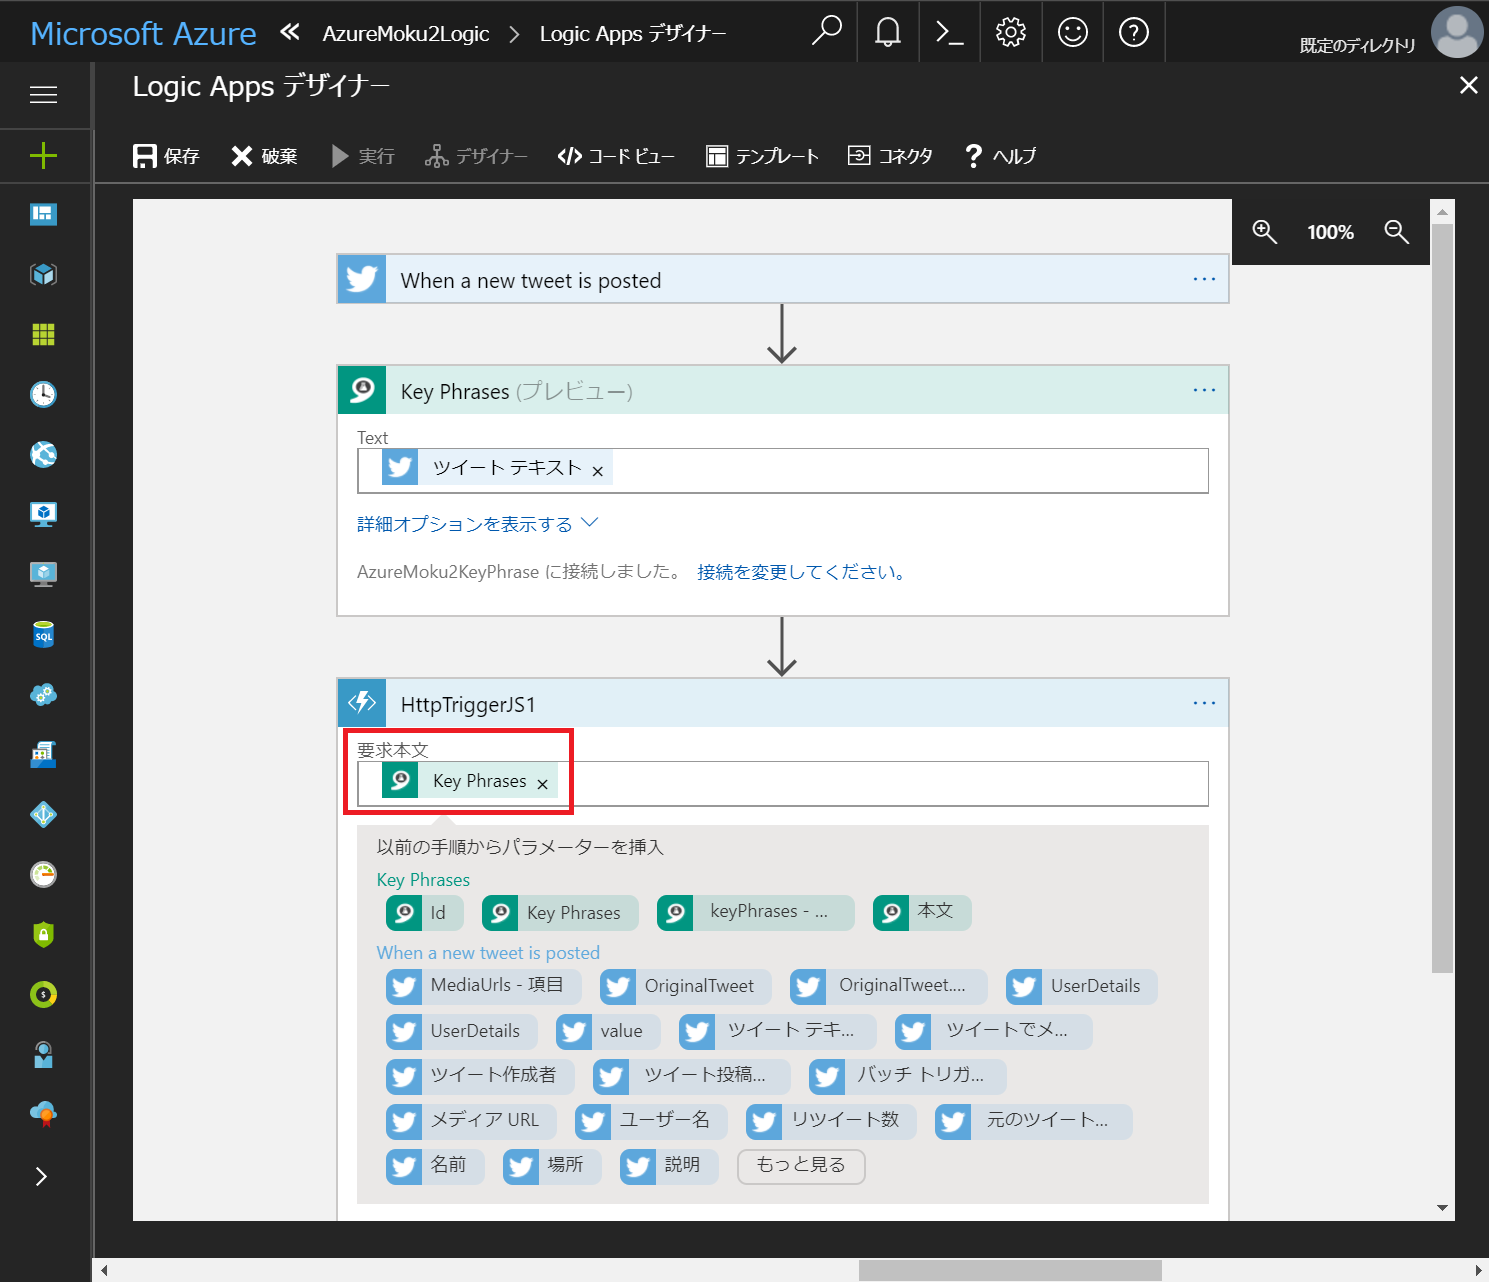
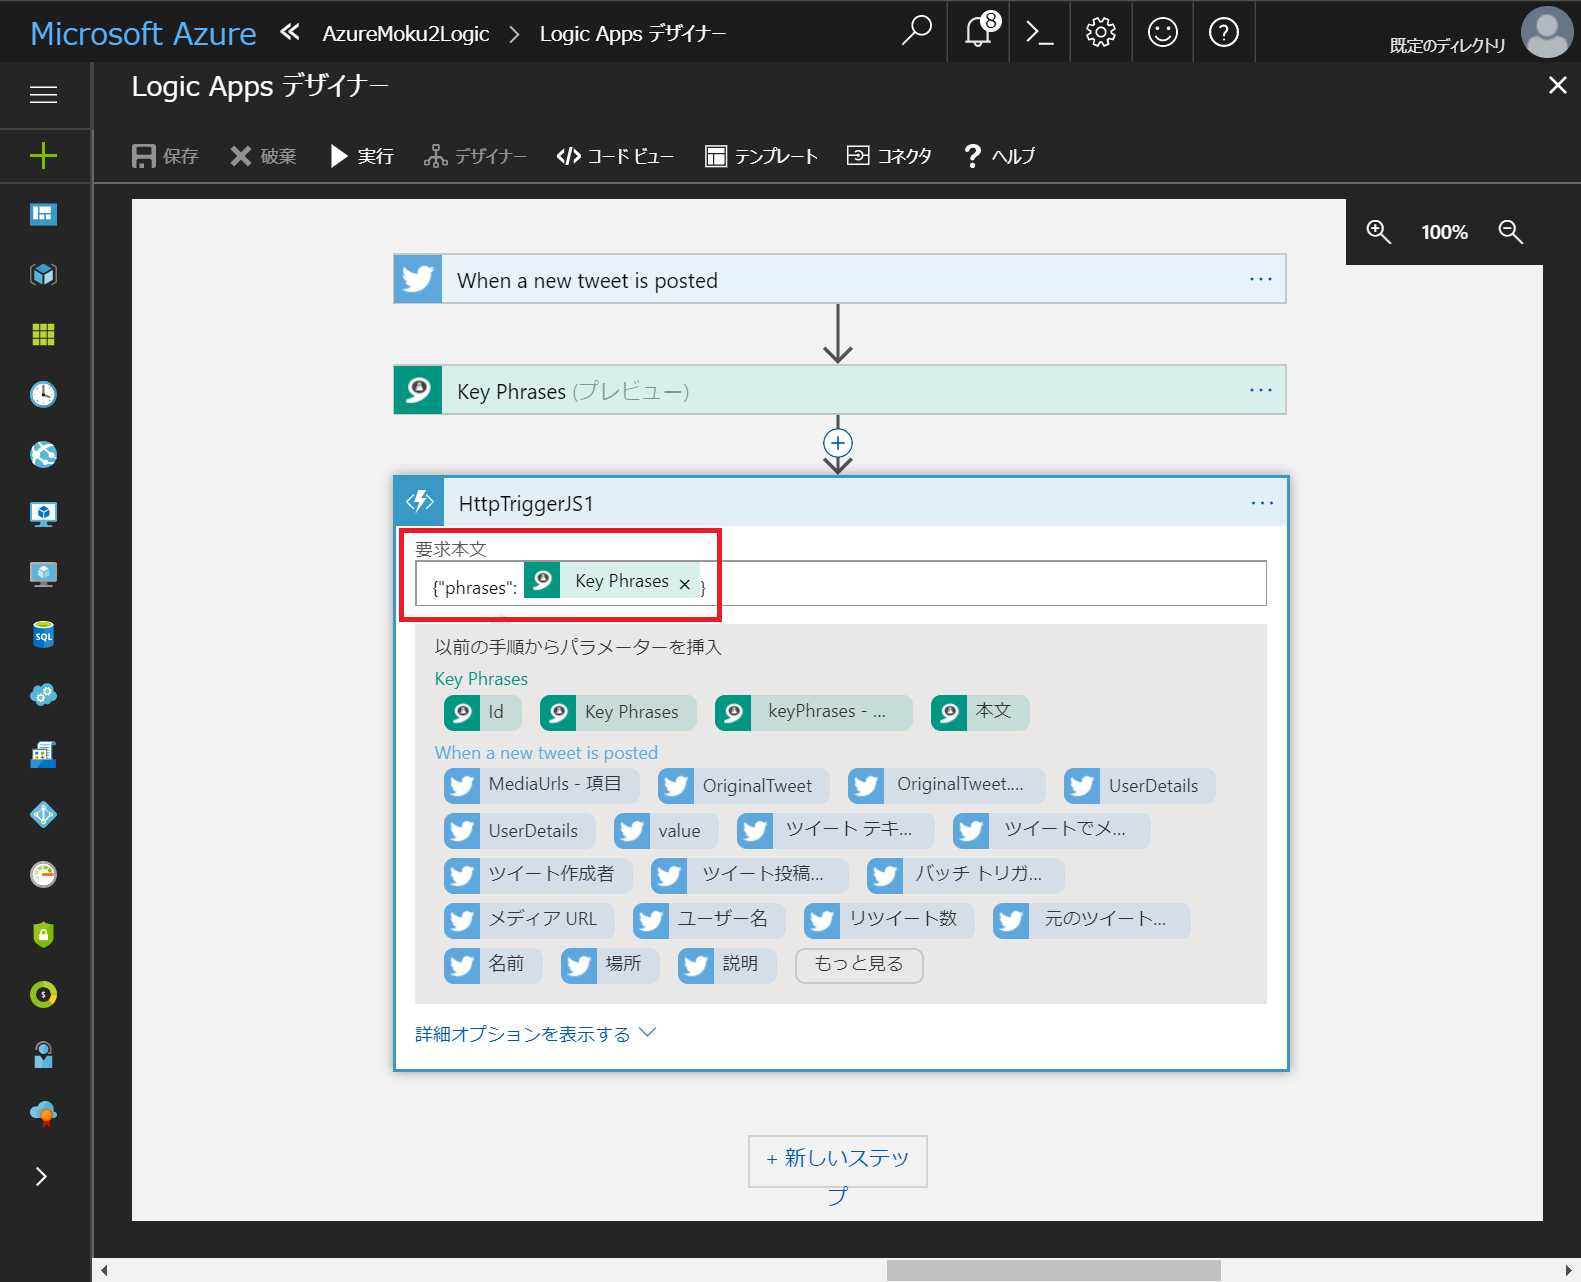
Update image

diff --git a/LogicApps-TweetAnalytics/Step2.md b/LogicApps-TweetAnalytics/Step2.md
@@ -233,7 +233,10 @@ function GenerateGuid() {
 
 ![Update Logic Apps 10](./assets/Step2/27.png)
 
-8. 「要求本文」に「Key Phrases」を挿入します。
+8. 「要求本文」に以下の内容を入力します。  
+    ```
+    {"phrases": [Key Phrases]}
+    ```
 
 ![Update Logic Apps 11](./assets/Step2/28.png)
 
